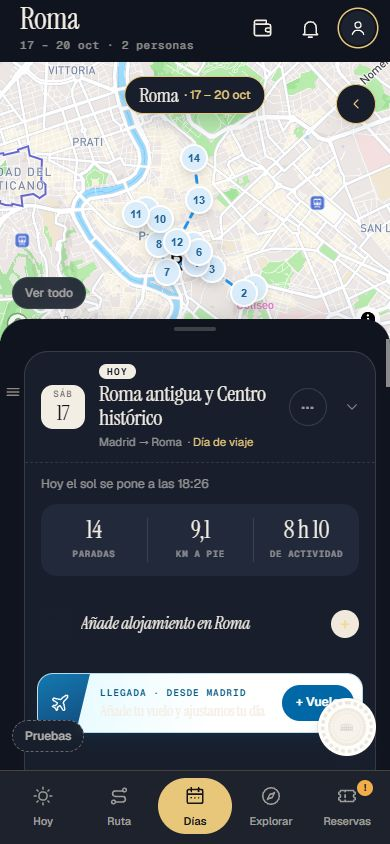
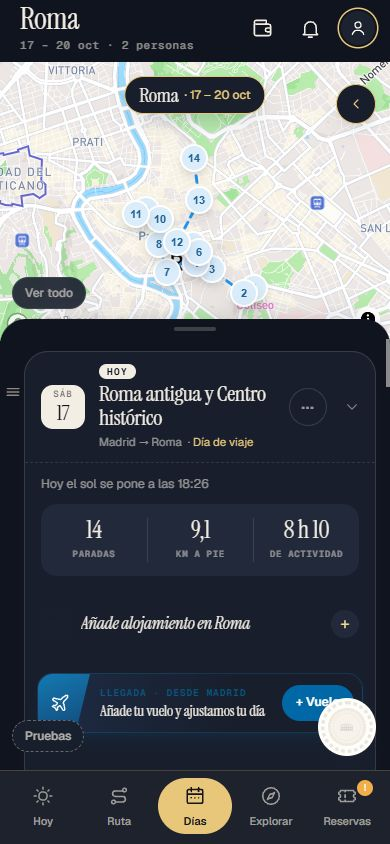
fix(noche): RESERVAS, EXPLORAR y DIAS en modo noche (tarjetas fijas a tarjeta de noche), ficha de la parada con modo noche, llegada y comida en noche, pruebas, capturas e informe

Changed region(s): [[0.1846, 0.7085, 0.9538, 0.8934], [0.0923, 0.8009, 0.1231, 0.8318]]

diff --git a/src/components/route/ExplorePanel.tsx b/src/components/route/ExplorePanel.tsx
@@ -74,7 +74,7 @@ function ExploreCard({ id, label, sub, photo, delay, wide, onClick }: { id: Expl
   const inner = (
     <>
       <span aria-hidden="true" className="absolute bottom-0 right-0 top-0" style={{ width: '58%', clipPath: diagonal, background }} />
-      <span aria-hidden="true" className="absolute bottom-0 right-0 top-0" style={{ width: '58%', clipPath: diagonal, background: 'linear-gradient(90deg,rgba(255,255,255,.55),rgba(255,255,255,0) 45%)' }} />
+      <span aria-hidden="true" className="absolute bottom-0 right-0 top-0" style={{ width: '58%', clipPath: diagonal, background: 'linear-gradient(90deg,rgb(var(--bg-card) / .55),rgb(var(--bg-card) / 0) 45%)' }} />
       <span
         aria-hidden="true"
         className="absolute left-3 top-3 flex h-9 w-9 items-center justify-center text-white"
@@ -83,13 +83,13 @@ function ExploreCard({ id, label, sub, photo, delay, wide, onClick }: { id: Expl
         <Icono nombre={EXPLORE_ICONOS[style.icon]} size={19} />
       </span>
       <span className="absolute bottom-3 left-3 right-3 flex flex-col gap-[3px]">
-        <span className="font-display text-text" style={{ fontSize: 21, lineHeight: 1, textShadow: '0 0 12px #fff,0 0 4px #fff' }}>
+        <span className="font-display text-text" style={{ fontSize: 21, lineHeight: 1, textShadow: '0 0 12px rgb(var(--bg-card)),0 0 4px rgb(var(--bg-card))' }}>
           {label}
         </span>
         {sub && (
           <span
             className="self-start rounded-md bg-bg-card py-0.5 pl-0 pr-1.5"
-            style={{ font: "500 11px 'Geist Mono',monospace", color: 'rgba(28,34,48,.65)' }}
+            style={{ font: "500 11px 'Geist Mono',monospace", color: 'rgb(var(--text) / .65)' }}
           >
             {sub}
           </span>
@@ -97,7 +97,7 @@ function ExploreCard({ id, label, sub, photo, delay, wide, onClick }: { id: Expl
       </span>
     </>
   )
-  const className = `${wide ? 'col-span-2 ' : ''}relative block h-[132px] overflow-hidden rounded-[20px] border border-text/[0.08] bg-white p-0 text-left text-text transition-transform active:scale-[.98]`
+  const className = `${wide ? 'col-span-2 ' : ''}relative block h-[132px] overflow-hidden rounded-[20px] border border-text/[0.08] bg-bg-card p-0 text-left text-text transition-transform active:scale-[.98]`
   const cardStyle = { boxShadow: '0 1px 2px rgba(28,34,48,.05),0 10px 24px -18px rgba(28,34,48,.35)', animation: `explore-pop .45s cubic-bezier(.2,.8,.2,1) ${delay}ms both` } as const
   return (
     <button type="button" onClick={onClick} className={className} style={cardStyle}>

diff --git a/src/index.css b/src/index.css
@@ -64,6 +64,8 @@
   --text-muted: 150 146 139;
   --border: 223 218 210;
   --border-accent: 210 193 162;
+  /* El fondo de las tarjetas de llegada y vuelta (el billete y la barra «+ Vuelo»): un azul muy claro que se funde con la tarjeta; de noche, un azul noche. */
+  --fondo-llegada: linear-gradient(100deg, oklch(0.97 0.03 230), #ffffff 60%);
 }
 
 .dark {
@@ -95,6 +97,7 @@
   --text-muted: 140 136 128;
   --border: 46 52 68;
   --border-accent: 97 89 71;
+  --fondo-llegada: linear-gradient(100deg, rgb(30 44 70), rgb(var(--bg-card)) 60%);
 }
 
 /* En modo noche, un botón de relleno de oro lleva el texto en tinta (el blanco sobre el oro pálido no se lee). */
@@ -103,27 +106,32 @@
   color: #14161c;
 }
 
-/* HOY de noche (Tanda 10): las tarjetas que son blancas o marfil «fijas» (los avisos de «cierra hoy a las 18:30», «Cerca de ti», la lista, el aviso de «Saltada»…) pasan a la tarjeta de noche y su letra
-   de tinta, a la letra clara. Lo que va DENTRO de una tarjeta oscura (el botón [Pon tus fechas], por ejemplo) se queda como estaba. */
-.dark [data-hoy] .bg-white,
-.dark [data-hoy] .bg-\[\#FFFDF8\] {
+/* El modo noche de las tarjetas «fijas» (Tanda 10): lo que se pintó con el blanco o el marfil escritos a mano (HOY: los avisos de «cierra hoy a las 18:30», «Cerca de ti», la lista; RESERVAS, EXPLORAR, DÍAS…)
+   pasa de noche a la tarjeta de noche y su letra de tinta, a la letra clara. Lo que va DENTRO de una tarjeta oscura (el botón [Pon tus fechas], por ejemplo) se queda como estaba. */
+.dark .bg-white,
+.dark .bg-\[\#FFFDF8\] {
   background-color: rgb(var(--bg-card));
 }
-.dark [data-hoy] .bg-\[\#F1EADC\],
-.dark [data-hoy] .bg-\[\#F5EFE4\] {
+.dark .bg-\[\#F1EADC\],
+.dark .bg-\[\#F5EFE4\],
+.dark .bg-\[\#FFFEFB\],
+.dark .bg-\[\#F8F3EA\],
+.dark .bg-\[\#F3EEE4\],
+.dark .bg-\[\#EDE4D3\],
+.dark .bg-\[\#E4D9C4\] {
   background-color: rgb(var(--bg-hover));
 }
-.dark [data-hoy] .text-\[\#1C2230\] {
+.dark .text-\[\#1C2230\] {
   color: rgb(var(--text));
 }
-.dark [data-hoy] .text-\[\#1C2230\]\/80 {
+.dark .text-\[\#1C2230\]\/80 {
   color: rgb(var(--text) / 0.8);
 }
-.dark [data-hoy] .bg-\[\#1C2230\] .bg-\[\#FFFDF8\] {
+.dark .bg-\[\#1C2230\] .bg-\[\#FFFDF8\] {
   background-color: #fffdf8;
 }
-.dark [data-hoy] .bg-\[\#1C2230\] .bg-\[\#FFFDF8\] .text-\[\#1C2230\],
-.dark [data-hoy] .bg-\[\#1C2230\] .bg-\[\#FFFDF8\].text-\[\#1C2230\] {
+.dark .bg-\[\#1C2230\] .bg-\[\#FFFDF8\] .text-\[\#1C2230\],
+.dark .bg-\[\#1C2230\] .bg-\[\#FFFDF8\].text-\[\#1C2230\] {
   color: #1c2230;
 }
 

diff --git a/src/components/route/dayDetail/StopDetailSheet.tsx b/src/components/route/dayDetail/StopDetailSheet.tsx
@@ -1,5 +1,6 @@
 import { useEffect, useState, type PointerEvent as ReactPointerEvent, type ReactNode } from 'react'
 import { AnimatePresence, motion } from 'framer-motion'
+import { useRouteStore } from '../../../store/useRouteStore'
 import type { Coordinates } from '../../../lib/types'
 import type { MockStopDetail } from '../../../lib/mockDayDetail'
 import { fetchPlacePhotoDetail, photoNameOf, type PlacePhoto } from '../../../lib/placePhoto'
@@ -138,6 +139,8 @@ export function StopDetailSheet({ stop, initialTab = null, visitTime = null, cit
     }
   }, [stop?.name, stop?.photoName, stop?.fixedPhotoUrl, stop?.isBreak, city, dateIso])
   const [mapVh, setMapVh] = useState(DEFAULT_MAP_VH)
+  // La ficha va en el body, fuera del contenedor del modo noche: lleva su propia clase para seguirlo (Tanda 10).
+  const noche = useRouteStore((state) => state.darkMode)
   const [internalDescription, setInternalDescription] = useState<StopDescription | null>(null)
   const [internalDescLoading, setInternalDescLoading] = useState(false)
   const [descFailed, setDescFailed] = useState(false)
@@ -400,7 +403,7 @@ export function StopDetailSheet({ stop, initialTab = null, visitTime = null, cit
   return (
     <AnimatePresence>
       {stop && (
-        <motion.div initial={{ opacity: 0 }} animate={{ opacity: 1 }} exit={{ opacity: 0 }} className="fixed inset-0 z-50 flex flex-col overflow-hidden bg-bg">
+        <motion.div initial={{ opacity: 0 }} animate={{ opacity: 1 }} exit={{ opacity: 0 }} className={`fixed inset-0 z-50 flex flex-col overflow-hidden bg-bg text-text${noche ? ' dark' : ''}`}>
           <div className="relative shrink-0" style={{ height: `${mapVh}vh` }}>
             <StopsMapView markers={markers} activeStopId={stop.id} />
 

diff --git a/src/components/route/dayDetail/TrazoCards.tsx b/src/components/route/dayDetail/TrazoCards.tsx
@@ -265,7 +265,7 @@ export function MealCard({ label, reservedTime, name, sub, iconPath, onOpen, onC
     </>
   )
   return (
-    <div className={`relative flex w-full items-center gap-3 rounded-[18px] border border-[#F1D6C9] bg-[#FCEFE8] max-[479px]:gap-2.5 ${small ? 'px-3 py-2.5' : 'px-3.5 py-3.5 max-[479px]:px-3 max-[479px]:py-2.5'}`}>
+    <div className={`relative flex w-full items-center gap-3 rounded-[18px] border border-[#F1D6C9] bg-[#FCEFE8] dark:border-border dark:bg-bg-hover max-[479px]:gap-2.5 ${small ? 'px-3 py-2.5' : 'px-3.5 py-3.5 max-[479px]:px-3 max-[479px]:py-2.5'}`}>
       {onOpen ? (
         <button type="button" onClick={onOpen} className="flex min-w-0 flex-1 items-center gap-3">
           {content}

diff --git a/src/components/route/dayDetail/ArrivalReturnBar.tsx b/src/components/route/dayDetail/ArrivalReturnBar.tsx
@@ -58,7 +58,7 @@ export function ArrivalReturnBar({ mode, text, onOpen, onAdd }: ArrivalReturnBar
       className="relative flex h-[60px] w-full cursor-pointer items-center gap-3 overflow-hidden rounded-2xl pr-2 transition-colors max-[479px]:gap-2.5"
       style={{
         border: `1px solid ${hecho ? 'oklch(0.55 0.11 150 / .4)' : 'oklch(0.55 0.12 240 / .25)'}`,
-        background: 'linear-gradient(100deg,oklch(0.97 0.03 230),#FFFFFF 55%)',
+        background: 'var(--fondo-llegada)',
         boxShadow: '0 10px 22px -16px oklch(0.45 0.1 240 / .6)',
       }}
     >

diff --git a/src/components/route/dayDetail/AccommodationBlock.tsx b/src/components/route/dayDetail/AccommodationBlock.tsx
@@ -45,7 +45,7 @@ export function AccommodationBlock({ city, segmentDayId, totalNights }: Accommod
       </span>
       <span
         className="flex h-7 w-7 shrink-0 items-center justify-center rounded-full text-[16px] font-medium leading-none"
-        style={{ background: hecho ? VERDE : '#F1EADC', color: hecho ? '#fff' : 'rgb(var(--accent-hover))' }}
+        style={{ background: hecho ? VERDE : 'rgb(var(--bg-hover))', color: hecho ? '#fff' : 'rgb(var(--accent-hover))' }}
       >
         {hecho ? '✓' : '+'}
       </span>

diff --git a/src/components/route/dayDetail/BilleteDeVuelo.tsx b/src/components/route/dayDetail/BilleteDeVuelo.tsx
@@ -61,7 +61,7 @@ export function BilleteDeVuelo({ billete, onOpen }: { billete: DatosBillete; onO
       className="relative flex min-h-[96px] w-full cursor-pointer overflow-hidden rounded-[18px]"
       style={{
         border: '1px solid oklch(0.55 0.12 240 / .28)',
-        background: 'linear-gradient(100deg,oklch(0.97 0.03 230),#FFFFFF 60%)',
+        background: 'var(--fondo-llegada)',
         boxShadow: '0 12px 24px -16px oklch(0.45 0.1 240 / .6)',
       }}
     >

diff --git a/docs/dias/INFORME_TANDA10_JUTRIP.md b/docs/dias/INFORME_TANDA10_JUTRIP.md
@@ -156,14 +156,11 @@ No he tocado el motor.
 - Los avisos («… cierra hoy a las 18:30»), «Cerca de ti», la lista de paradas y el aviso de «Saltada» eran tarjetas blancas fijas con letra de tinta (o clara): ahora, de noche, son tarjetas de noche con letra clara (reglas en `src/index.css` bajo `.dark [data-hoy]`, más la letra de la lista y la etiqueta «HOY · SÁB 17 · 0 de 14 visto», que iban con colores fijos).
 - La prueba nueva mira, en el navegador, el fondo de la tarjeta y de los avisos de día y de noche.
 
-**Repaso de noche en todas las pantallas** (capturas en `docs/dias/capturas_jutrip/interior_*_noche.jpg` y `hoy_*_noche*.jpg`). Pasa también en estos sitios; **no los he tocado** (me pedías que te dijera dónde):
-1. **RESERVAS**: las tarjetas «Llegada y vuelta», «Alojamiento» y «Entradas y Free Tour» y «0 de 3 listo» son marfil fijo con el título casi invisible (letra clara sobre marfil).
-2. **EXPLORAR**: las seis tarjetas (Atracciones, Miradores, Restaurantes, Entradas, Excursiones, Baños) llevan fondo marfil con el nombre en letra clara: no se lee el nombre.
-3. **DÍAS**: «Añade alojamiento en Roma» y la tarjeta azul de «Llegada · desde Madrid» (el texto «Añade tu vuelo…») se leen mal.
-4. **La ficha de una parada** (la hoja que se abre al tocar una parada) sale siempre en claro, también de noche (no sigue el modo noche). Se lee bien, pero no es de noche.
-5. Los escaparates de logros y de Pase (`interior_Logros_*`, `interior_Pase_*`) salen siempre en claro en las capturas porque se montan fuera de la app; en la app de verdad no las he podido mirar de noche con estos datos de prueba.
-- Bien de noche: HOY (los dos), RUTA, la lista de DÍAS y la barra de abajo.
+**Repaso de noche en todas las pantallas** (capturas en `docs/dias/capturas_jutrip/interior_*_noche.jpg` y `hoy_*_noche*.jpg`). Primero lo repasé y vi que pasaba en más sitios; a tu petición, **ya está arreglado**:
+1. **RESERVAS** (las tarjetas «Llegada y vuelta», «Alojamiento», «Entradas y Free Tour» y «0 de 3 listo») y **EXPLORAR** (las seis tarjetas, con su nombre y su contador): ahora son tarjetas de noche con letra clara. La regla general está en `index.css` (`.dark .bg-white`, `.dark .bg-[#FFFDF8]` y los marfiles parecidos pasan a la tarjeta de noche, y la letra de tinta a letra clara; lo que va dentro de una tarjeta oscura se queda como estaba). EXPLORAR, además, lleva su degradado y su sombra de texto con los colores del tema.
+2. **DÍAS**: la tarjeta azul «Llegada · desde Madrid» (y el billete de vuelo) ahora tiene fondo de noche (`--fondo-llegada`); la tarjeta de la comida (melocotón) pasa a tarjeta de noche; el «+» de «Añade alojamiento» también.
+3. **La ficha de una parada** sigue ahora el modo noche (antes salía siempre en claro porque se pinta fuera del contenedor del modo noche: lleva su propia clase `dark`).
+- Bien de noche: HOY (los dos), RUTA, la lista de DÍAS, EXPLORAR, RESERVAS y la barra de abajo.
+- **Sin mirar de noche en la app de verdad:** las hojas de Logros y del Pase (los escaparates se montan fuera de la app y salen siempre en claro); se pintan fuera del contenedor del modo noche, como lo estaba la ficha. Si pasa ahí, es la misma solución (su propia clase `dark`).
 
-Si quieres, lo siguiente es arreglar 1, 2 y 3 con la misma idea (tarjeta de noche con letra clara) y llevar la ficha de la parada al modo noche.
-
-**Pruebas de este apartado:** `pruebaJutrip` 118 comprobaciones, 0 fallos (10 nuevas de HOY). Batería rápida: 76 pruebas en 0 fallos; `pruebaFase6y5_motor` por procesos, 143.647 comprobaciones, 0 fallos. Dos pruebas viejas miraban el código de HOY y las he actualizado a propósito: `pruebaFase6y7_historias` (el botón «Escuchar» de HOY ahora lleva `oscuro={!claro}`, es decir, claro o oscuro según el modo) y `pruebaTanda6z5` (la parada saltada sale en gris con la letra del tema, `rgb(var(--text) / .4)`, y no con el gris fijo). Capturas de HOY (v1 y v2, de día y de noche, y la parte de abajo) en `docs/dias/capturas_jutrip/hoy_*.jpg`.
+**Pruebas:** `pruebaJutrip` 120 comprobaciones, 0 fallos (con las de noche); batería rápida de 76 pruebas en 0 fallos (tres salieron en MAL en una pasada con la máquina cargada y pasan solas: `pruebaFase6y5_pantallas`, `pruebaFase6y3_fotos` y `pruebaFase6y2_fotos`, que no leen nada de lo que he tocado); `pruebaFase6y5_motor` por procesos: 143.647 comprobaciones, 0 fallos.
